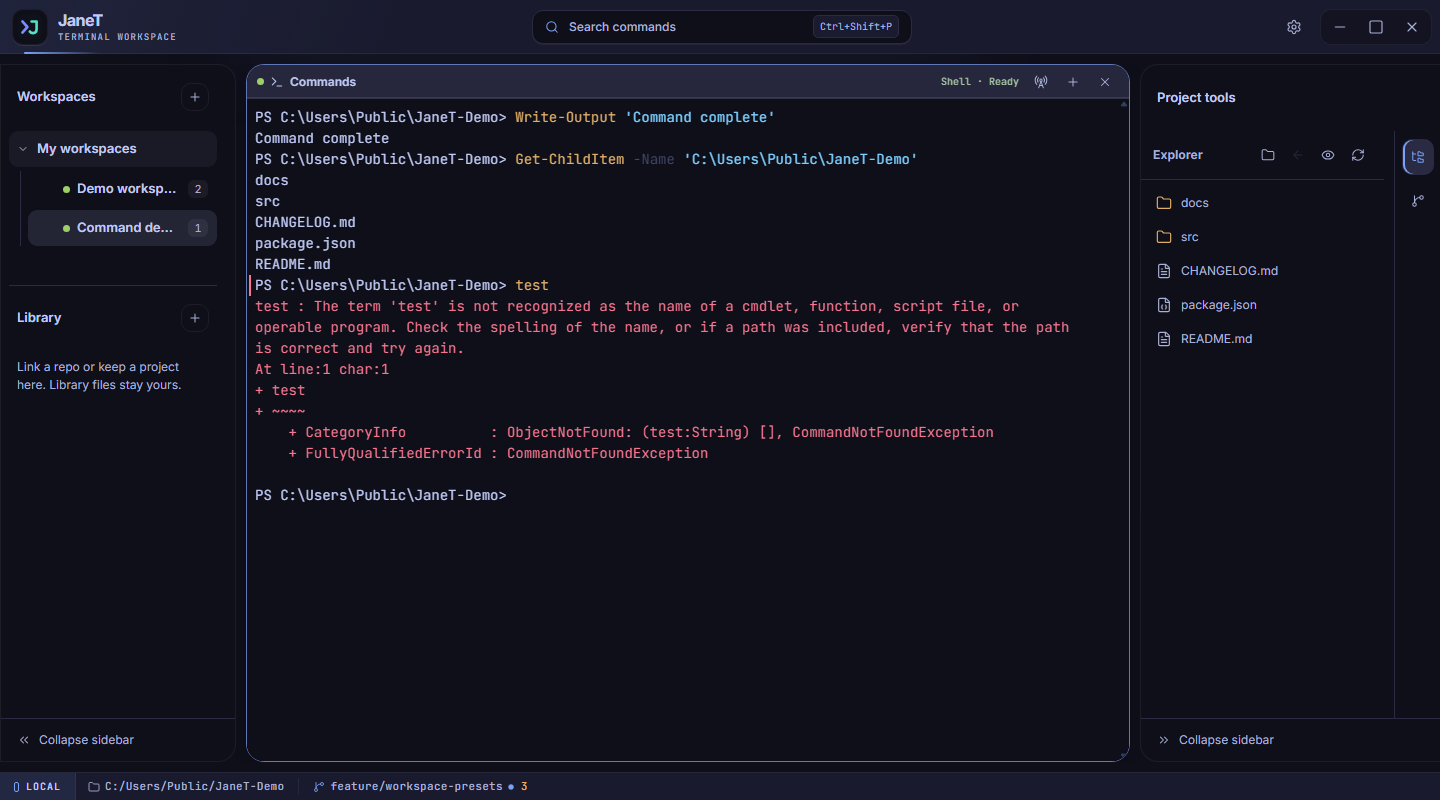
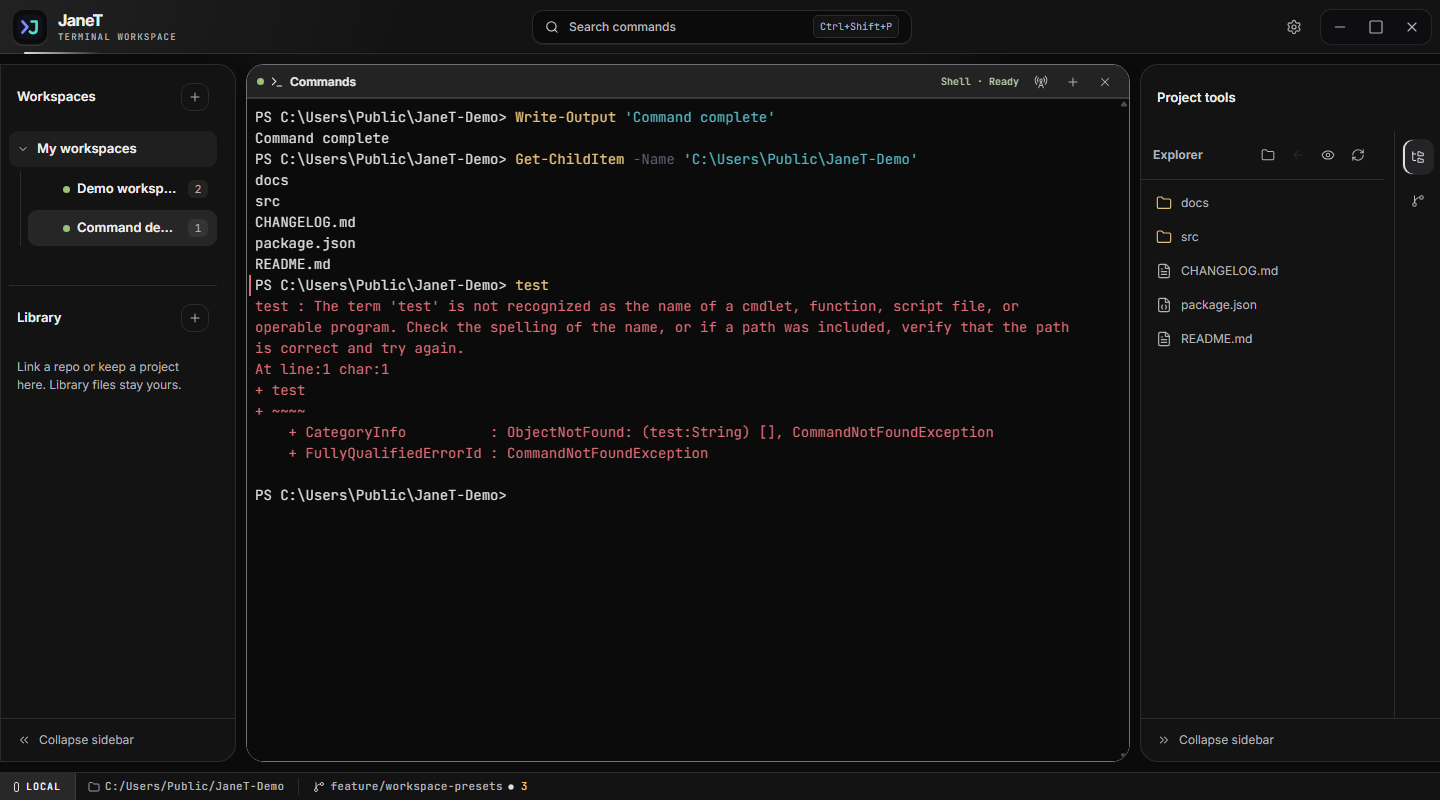
docs: capture all JaneT screenshots in One Dark

diff --git a/tests/e2e/public-screenshots.spec.ts b/tests/e2e/public-screenshots.spec.ts
@@ -17,6 +17,7 @@ const screenshotNames = [
   'command-history.png',
   'command-palette.png',
   'notification-settings.png',
+  'optional-workspace-setup.png',
   'project-creation.png',
   'settings-overview.png',
   'semantic-commands.png',
@@ -24,6 +25,7 @@ const screenshotNames = [
   'source-control.png',
   'workspace-creation.png',
   'workspace-overview.png',
+  'workspace-setup-sidebar.png',
 ] as const;
 
 test.skip(process.platform !== 'win32', 'Public screenshots are captured from the Windows desktop app.');
@@ -147,7 +149,7 @@ async function capture(name: typeof screenshotNames[number], target: Page | Loca
 
 function writeSettings(userData: string): void {
   fs.writeFileSync(path.join(userData, 'settings.json'), JSON.stringify({ mainDirectory: userData,
-    theme: 'tokyo-night',
+    theme: 'one-dark',
     fontSize: 14,
     sidebarSide: 'right',
     keybindings: {},
@@ -202,13 +204,32 @@ test('recaptures the shipped public screenshot set from the real app', async () 
   try {
     createProjectFixture();
     userData = fs.mkdtempSync(path.join(path.dirname(fixturePath), 'JaneT-Public-Screenshot-Profile-'));
+    app = await electron.launch({
+      args: ['.'],
+      cwd: root,
+      env: electronEnv({ NODE_ENV: 'test', JANET_E2E_USER_DATA_DIR: userData }),
+    });
+    let page = await app.firstWindow();
+    await expect.poll(() => page.evaluate(() => getComputedStyle(document.documentElement).getPropertyValue('--bg-primary').trim()))
+      .toBe('#0b0b0c');
+    const onboarding = page.locator('.directory-onboarding');
+    await expect(onboarding).toBeVisible();
+    await capture('optional-workspace-setup.png', onboarding);
+    await page.getByRole('button', { name: 'Skip for now' }).click();
+    await expect(page.getByRole('region', { name: 'Choose where to work' })).toBeVisible();
+    await capture('workspace-setup-sidebar.png', page.locator('.workspace-tabs-rail'));
+    await forceClose(app);
+    app = undefined;
+
     writeSettings(userData);
     app = await electron.launch({
       args: ['.'],
       cwd: root,
       env: electronEnv({ NODE_ENV: 'test', JANET_E2E_USER_DATA_DIR: userData }),
     });
-    const page = await app.firstWindow();
+    page = await app.firstWindow();
+    await expect.poll(() => page.evaluate(() => getComputedStyle(document.documentElement).getPropertyValue('--bg-primary').trim()))
+      .toBe('#0b0b0c');
     page.on('pageerror', (error) => pageErrors.push(error.message));
     await page.waitForLoadState('domcontentloaded');
     await app.evaluate(({ BrowserWindow }) => BrowserWindow.getAllWindows()[0]?.setSize(1440, 800));

diff --git a/src/renderer/App.tsx b/src/renderer/App.tsx
@@ -2383,6 +2383,13 @@ export default function App() {
     loadSettings();
   }, [loadSettings]);
 
+  // AppInner does not mount during first-launch setup.
+  useLayoutEffect(() => {
+    if (settings?.mainDirectory === null && !settings.mainDirectorySetupSkipped) {
+      applyCssTheme(getTheme(settings.theme || 'one-dark').css);
+    }
+  }, [settings]);
+
   // Persist keybindings to main process
   const handleSave = useCallback((b: Record<KeybindingAction, string>) => {
     void persistence.persist({ keybindings: b });

diff --git a/AGENTS.md b/AGENTS.md
@@ -7,7 +7,7 @@ Read `CONTRIBUTING.md` and `.github/workflows/ci.yml` before changing or validat
 - For every user-facing feature, workflow, setting, or supported-platform change, update the matching VitePress guide in `docs/` in the same change. Keep the README as a short project landing page that links to the published guide at https://sjormz.github.io/JaneT/.
 - Write for app users: use the current UI labels, explain prerequisites and steps, and state meaningful behavior limits. Update VitePress navigation when adding or moving pages.
 - Include a relevant screenshot for each documented screen or workflow. Capture synthetic, non-sensitive data; never publish real user files, terminal output, credentials, private URLs, or personal information. Give each image useful alt text and a caption, and refresh it when the UI changes.
-- On Windows, rebuild the app and run `$env:JANET_UPDATE_PUBLIC_SCREENSHOTS='1'; npx.cmd playwright test --config playwright.config.ts tests/e2e/public-screenshots.spec.ts` to refresh the public screenshot set in both `assets/screenshots/` and `docs/site/public/screenshots/`. Review every changed image before publishing it.
+- On Windows, rebuild the app and run `$env:JANET_UPDATE_PUBLIC_SCREENSHOTS='1'; npx.cmd playwright test --config playwright.config.ts tests/e2e/public-screenshots.spec.ts` to refresh the public screenshot set in both `assets/screenshots/` and `docs/site/public/screenshots/`. Keep every screenshot in the app's One Dark theme and review every changed image before publishing it.
 - Run `npm run docs:check` after documentation changes and inspect the changed pages and screenshots. Keep this command aligned with the site's build and link checks. For visual or navigation changes, review the site locally at desktop and narrow widths.
 - If a change does not affect user documentation, record the reason in the PR or completion report. Documentation checks do not establish that the guide matches current product behavior; review affected workflows against the app.
 
